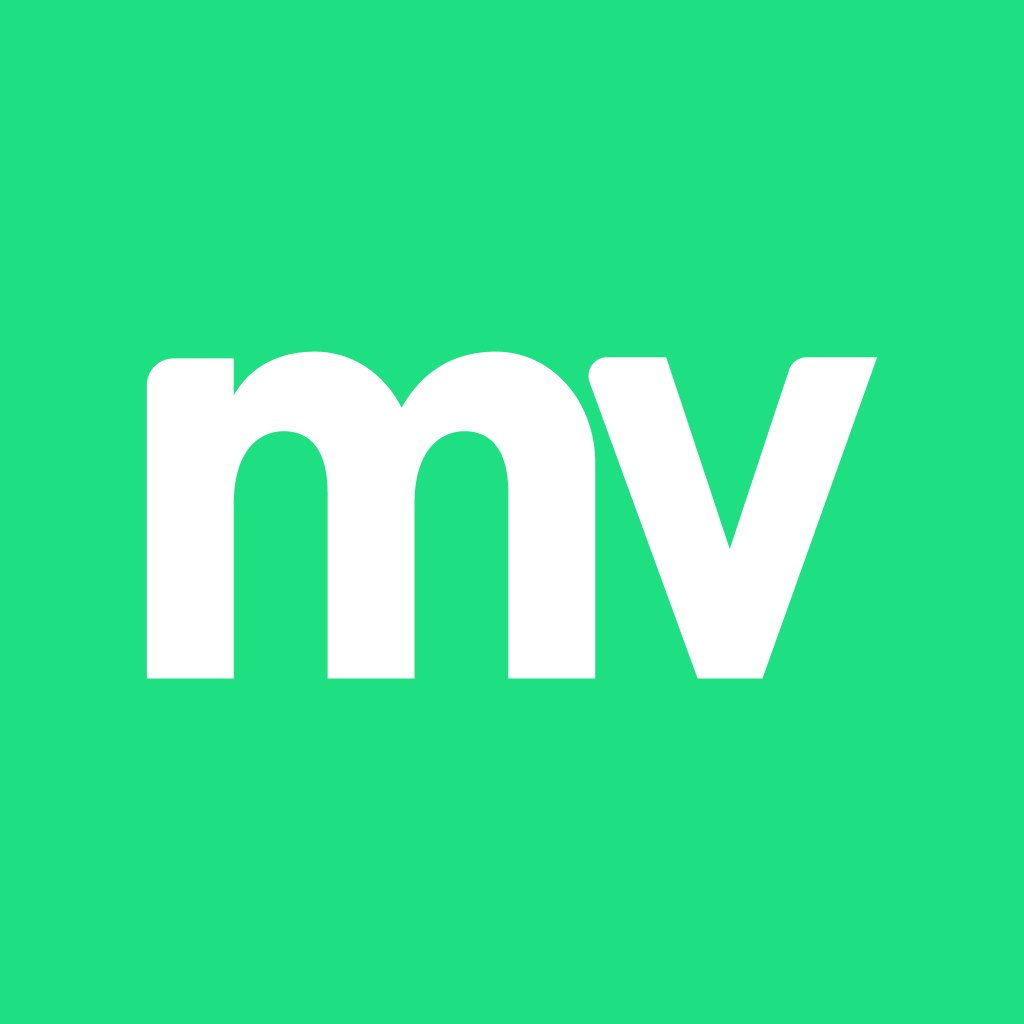
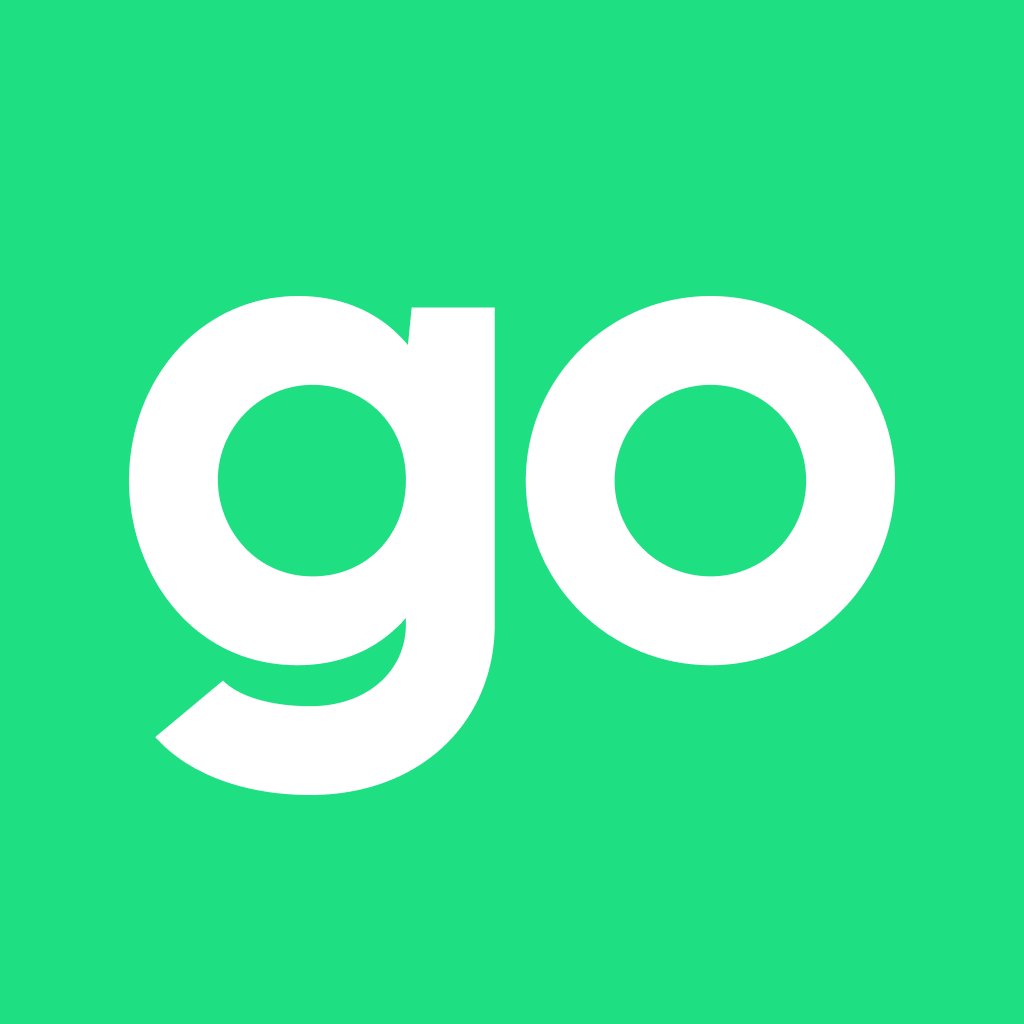
[ch112] Change name to Gigover

Changed region(s): [[0.125, 0.2812, 0.875, 0.7812]]

diff --git a/app/lib/screens/LoginScreen/widgets/LoginHeader.dart b/app/lib/screens/LoginScreen/widgets/LoginHeader.dart
@@ -16,25 +16,26 @@ class LoginHeader extends StatelessWidget {
     const paddingAmount = Spacing.modifier * 6;
 
     return Padding(
-      padding:
-          const EdgeInsets.only(top: paddingAmount, bottom: paddingAmount),
+      padding: const EdgeInsets.only(top: paddingAmount, bottom: paddingAmount),
       child: Column(
         crossAxisAlignment: CrossAxisAlignment.center,
         mainAxisAlignment: MainAxisAlignment.center,
         children: <Widget>[
           Container(
-              width: 192.scaleHorizontal,
-              height: 43.scaleVertical,
-              child: SvgPicture.asset("assets/logo/mittverk.svg")),
+            width: 192.scaleHorizontal,
+            height: 43.scaleVertical,
+            child: SvgPicture.asset("assets/logo/gigover.svg"),
+          ),
           Padding(
             padding: const EdgeInsets.only(
-                top: Spacing.modifier * 2,
-                left: paddingAmount * 0.75,
-                right: paddingAmount * 0.75),
+              top: Spacing.modifier * 2,
+              left: paddingAmount * 0.75,
+              right: paddingAmount * 0.75,
+            ),
             child: Container(
               child: Text(
                 verificationCodeSent
-                    ? 'Við höfum sent skilaboð á númerið $phoneNumber. Það gæti tekið smá stund að berast.'
+                    ? 'We have sent a verification code to the phone number $phoneNumber. It could take a few moments to arrive, please wait.'
                     : 'Enter your mobile number and we will send you a verification code to sign in with.',
                 textAlign: TextAlign.center,
                 style: AvailableFonts.getTextStyle(context,

diff --git a/app/lib/utils/Theme.dart b/app/lib/utils/Theme.dart
@@ -3,7 +3,7 @@ import 'dart:ui';
 class MVTheme {
   static Color primaryColor = Color.fromRGBO(7, 16, 41, 1);
   static Color secondaryColor = Color.fromRGBO(31, 223, 131, 1);
-  static Color appBarBackgroundColor = Color.fromRGBO(15, 49, 137, 1);
+  static Color appBarBackgroundColor = Color.fromRGBO(0, 0, 0, 1);
 
   static Color lightOrange = Color.fromRGBO(255, 244, 236, 1);
   static Color darkOrange = Color.fromRGBO(235, 126, 48, 1);
@@ -17,5 +17,6 @@ class MVTheme {
 
   static Color blueLabelBackground = Color.fromRGBO(201, 239, 255, 1);
   static Color blueLabelText = Color.fromRGBO(57, 142, 178, 1);
+
 
 }

diff --git a/app/lib/widgets/AppBar/MittVerkAppBar.dart b/app/lib/widgets/AppBar/MittVerkAppBar.dart
@@ -37,7 +37,7 @@ class MittVerkAppBarState extends State<MittVerkAppBar> {
     return AppBar(
       backgroundColor: MVTheme.appBarBackgroundColor,
       title: SvgPicture.asset(
-        'assets/logo/mittverk.svg',
+        'assets/logo/gigover.svg',
         height: 26.scale,
       ),
       centerTitle: true,
